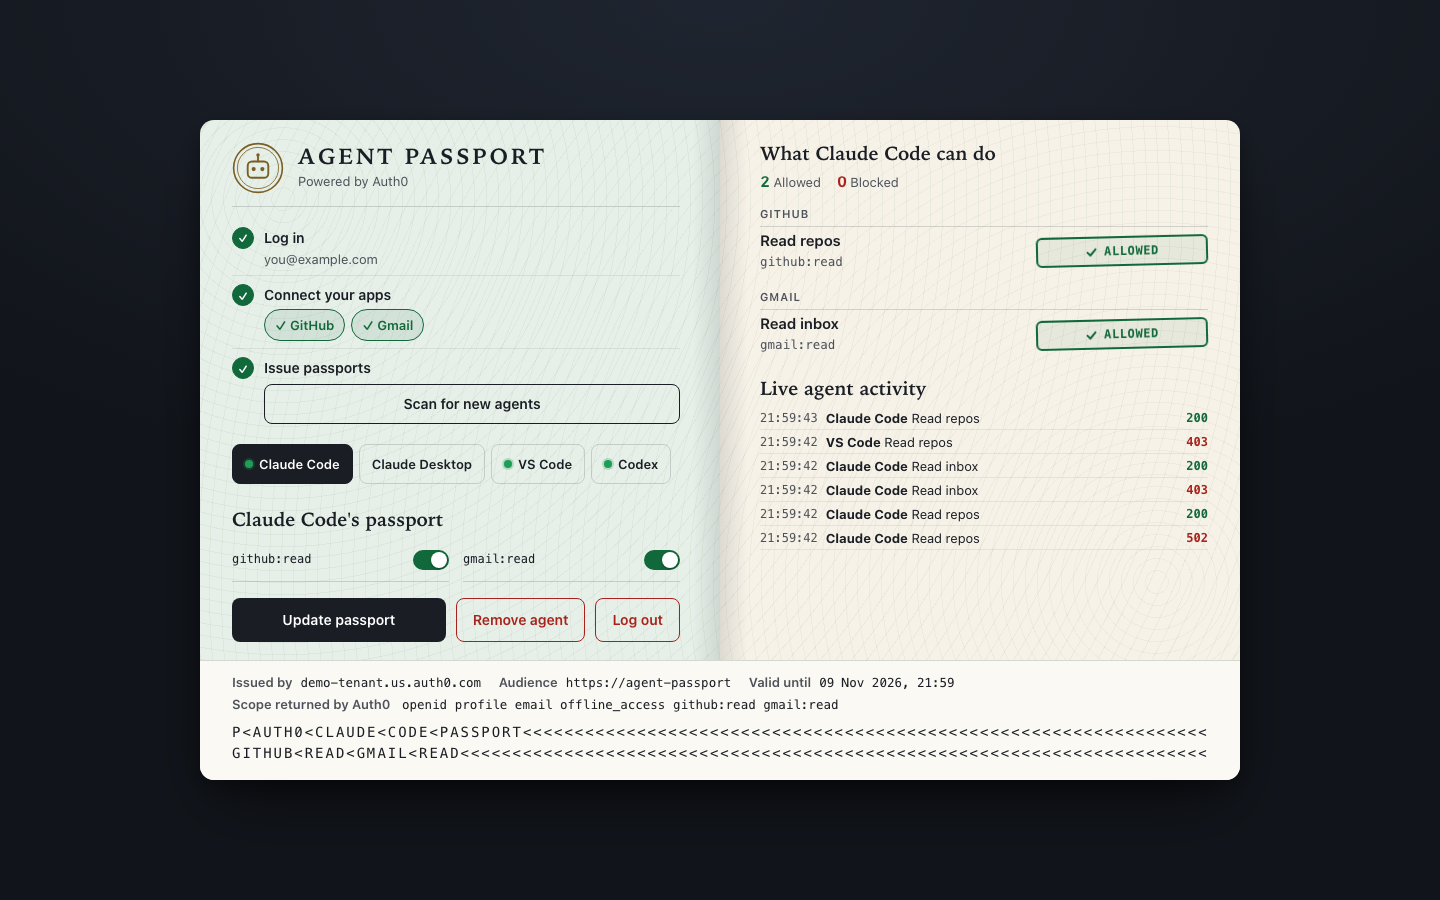
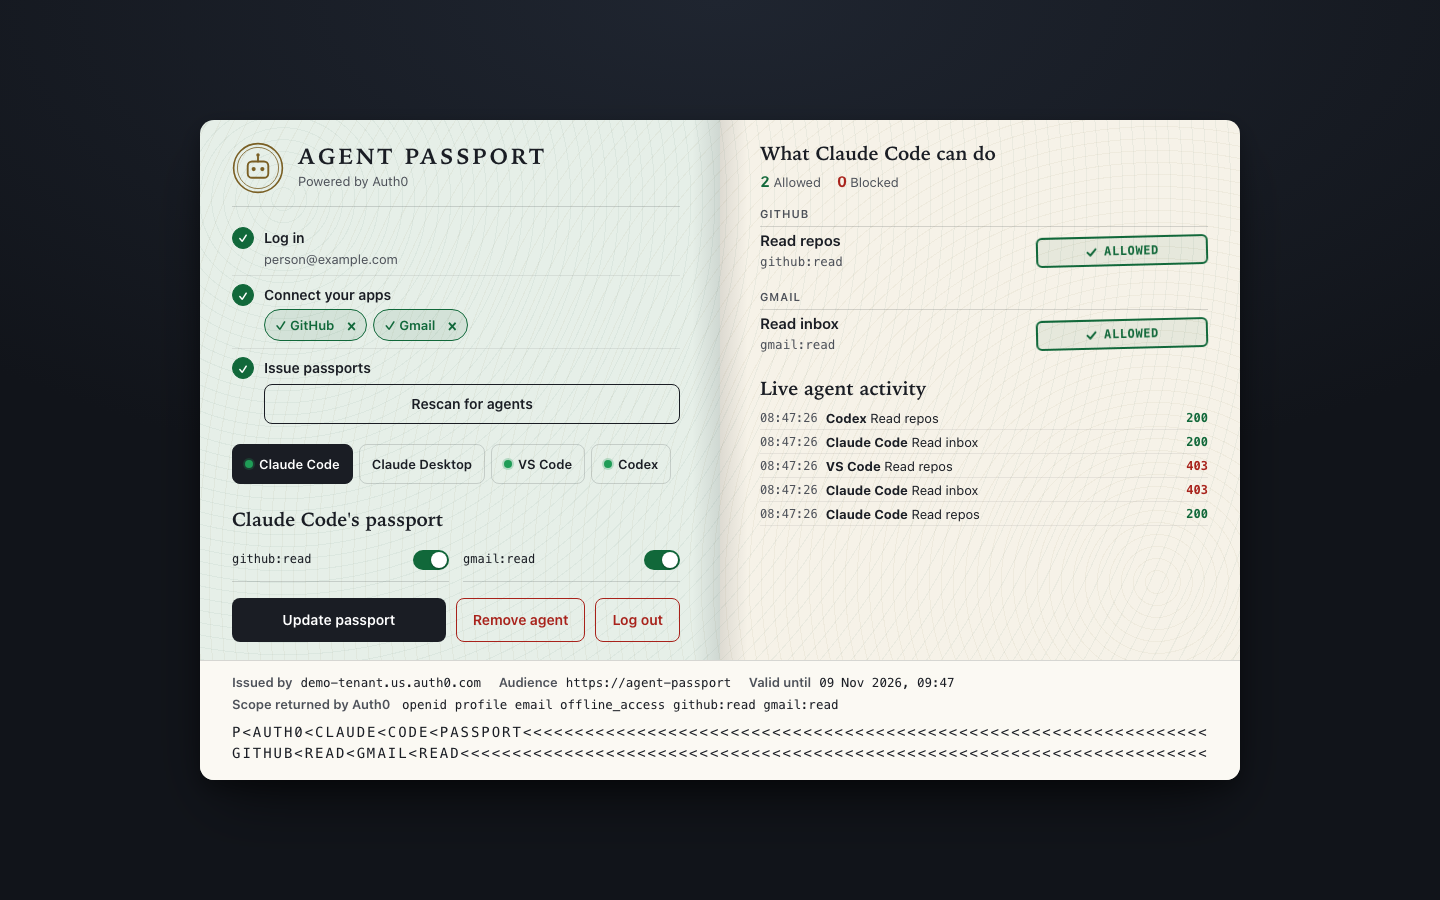
docs: mark Gmail as tested, add Rescan, refresh screenshot
The README said Gmail hadn't been run against a real Google account, but it has. It now covers Rescan for agents, says refused calls return 401 or 403, notes that Claude Desktop and VS Code are only found at their macOS paths, and shows the current panel.

diff --git a/README.md b/README.md
@@ -4,7 +4,7 @@ Control what each AI agent on your machine can do, from one panel. Auth0 handles
 
 ![The Agent Passport panel, showing one agent's permissions and a live feed of allowed and refused calls](docs/panel.png)
 
-> **Status:** a local, single-user prototype. The GitHub flow has been run end to end against real Auth0 and GitHub. The Gmail flow is implemented and covered by tests, but hasn't yet been run against a real Google account.
+> **Status:** a local, single-user prototype. The GitHub and Gmail flows have both been run end to end against real Auth0, GitHub and Google accounts.
 
 ## The problem
 
@@ -28,7 +28,7 @@ For every tool call, the panel:
 3. **Checks the scope** is on that agent's passport and in your Auth0 token.
 4. **Fetches an app token from Token Vault** and calls the real API, only if everything passed.
 
-A refused call returns a `403` and never contacts the app. The app token stays in the panel and is never sent to the agent.
+A refused call returns a `401` or `403` and never contacts the app. The app token stays in the panel and is never sent to the agent.
 
 ## What it can do
 
@@ -37,7 +37,7 @@ A refused call returns a `403` and never contacts the app. The app token stays i
 | `github_list_repos` | `github:read` | Your 10 most recently updated repos |
 | `gmail_list_messages` | `gmail:read` | Sender and subject of your 5 latest emails, never the body |
 
-**One-click passports:** the panel looks for known MCP clients (Claude Code, Claude Desktop, VS Code, Cursor, Windsurf and Codex), gives each its own key, and adds Agent Passport to its config. It backs up any existing config first, leaves your other settings alone, and refuses to touch a config it can't parse.
+**One-click passports:** the panel looks for known MCP clients (Claude Code, Claude Desktop, VS Code, Cursor, Windsurf and Codex), gives each its own key, and adds Agent Passport to its config. It backs up any existing config first, leaves your other settings alone, and refuses to touch a config it can't parse. Click **Rescan for agents** later to pick up new agents. Agents that already have a passport keep their key and scopes.
 
 ## Quick start
 
@@ -63,7 +63,7 @@ To undo things later:
 
 - **Switch off a scope** to stop one agent using an app, on its next call.
 - **× on a connected app** removes it from Token Vault and cuts it off for every agent.
-- **Remove agent** deletes its passport and takes Agent Passport out of its config.
+- **Remove agent** deletes its passport, so its key stops working at once, and takes Agent Passport out of its config. **Rescan for agents** brings back any removed agent it finds, with a new key and only `github:read`.
 - **Log out** ends your panel and Auth0 sessions. Connected apps stay connected until you remove them.
 
 ## Security model
@@ -82,7 +82,7 @@ To undo things later:
 - **Local keys aren't strong identity.** Anything running as your user could read `passports.json`.
 - **Removing access doesn't revoke a token already issued.** The passport check applies on the next call, but the Auth0 token stays valid until it expires.
 - **Passports live in this app, not in Auth0.** A production version would move agent identity to [Agent as Principal](https://auth0.com/docs/ai-agents-mcp/agent-as-principal) and the rules to Auth0 FGA.
-- **Detection only finds known clients.** Custom agents won't appear, and "running" is a best guess from process names.
+- **Detection only finds known clients.** Custom agents won't appear, Claude Desktop and VS Code are only found at their macOS config paths, and "running" is a best guess from process names.
 
 The setup also turns off refresh token rotation and the My Account API's 2FA policy, because this flow needs them off. Keep the 2FA policy on in production, with a step-up prompt when someone connects an account.
 

diff --git a/docs/setup.md b/docs/setup.md
@@ -64,7 +64,7 @@ Your app uses this API to connect accounts on your behalf.
    - Under **Permissions**, turn on **Offline Access** and leave `gmail.readonly` off, so sign-in only asks for an email and profile. The app requests Gmail access when you click **Connect Gmail**.
 5. On the connection's **Applications** tab, turn on your application.
 
-This flow hasn't been run end to end against a real Google account yet. If Auth0 refuses the Gmail request, turn `gmail.readonly` on for the connection. Every Google sign-in then asks for inbox access too, so only test users can sign in.
+Reading Gmail has been run end to end with a real Google account. If Auth0 refuses the Gmail request in your setup, turn `gmail.readonly` on for the connection. Every Google sign-in then asks for inbox access too, so only test users can sign in.
 
 Google shows an "unverified app" warning for test apps. `gmail.readonly` is a restricted scope, so opening this to the public requires Google's verification and a security assessment.
 
